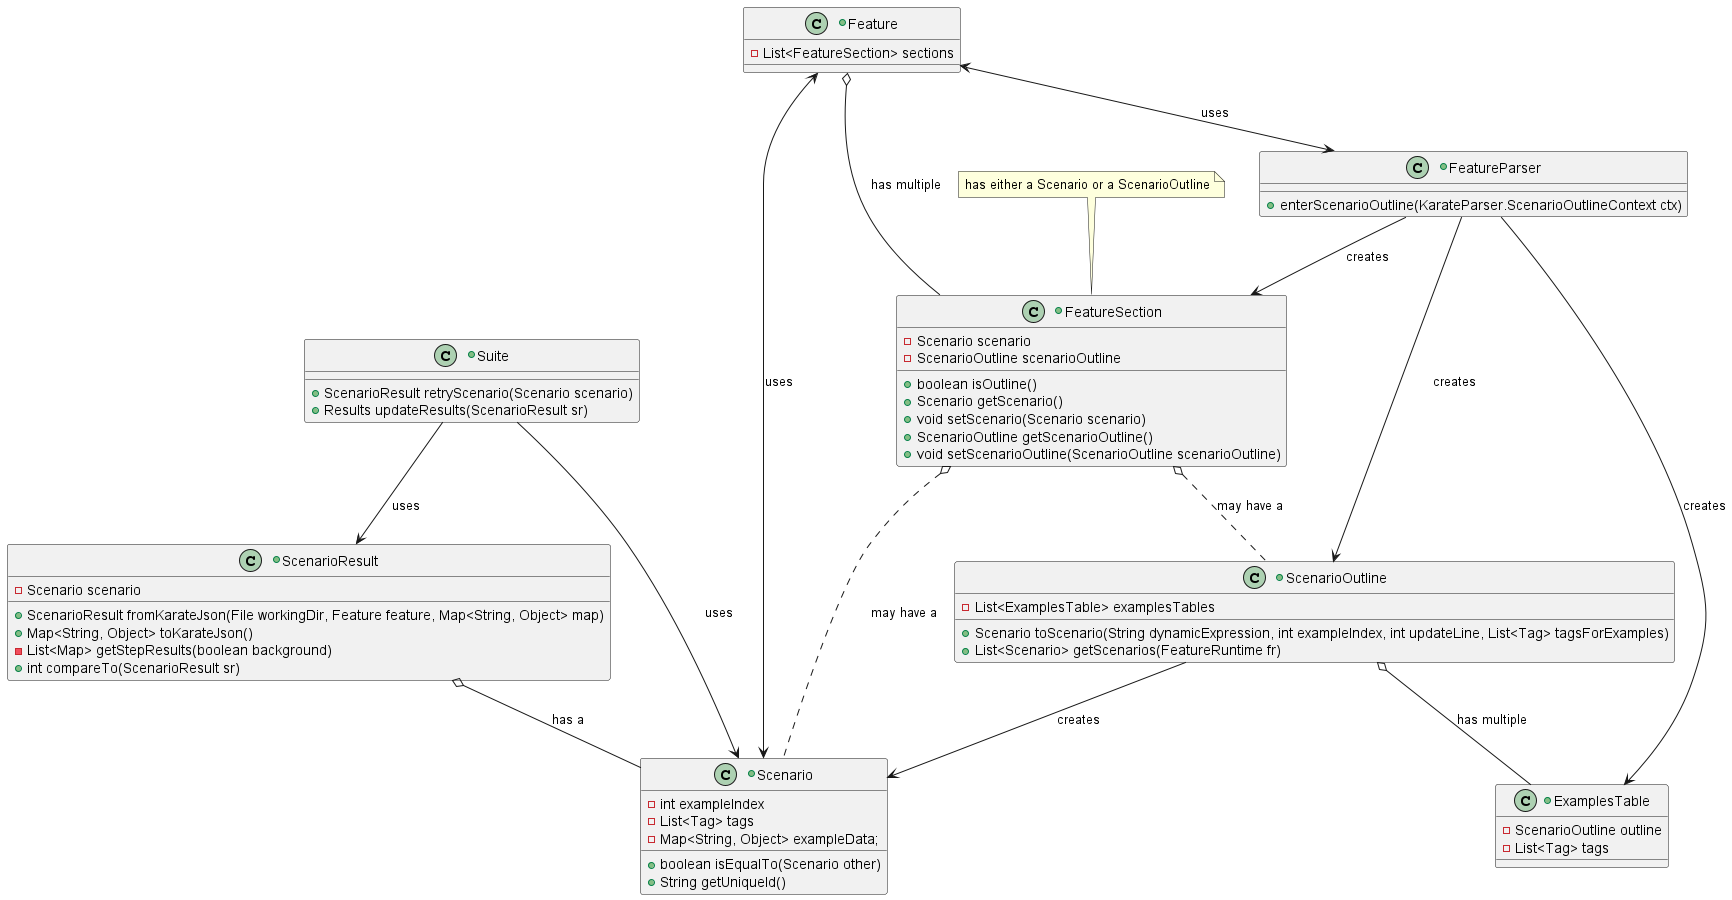
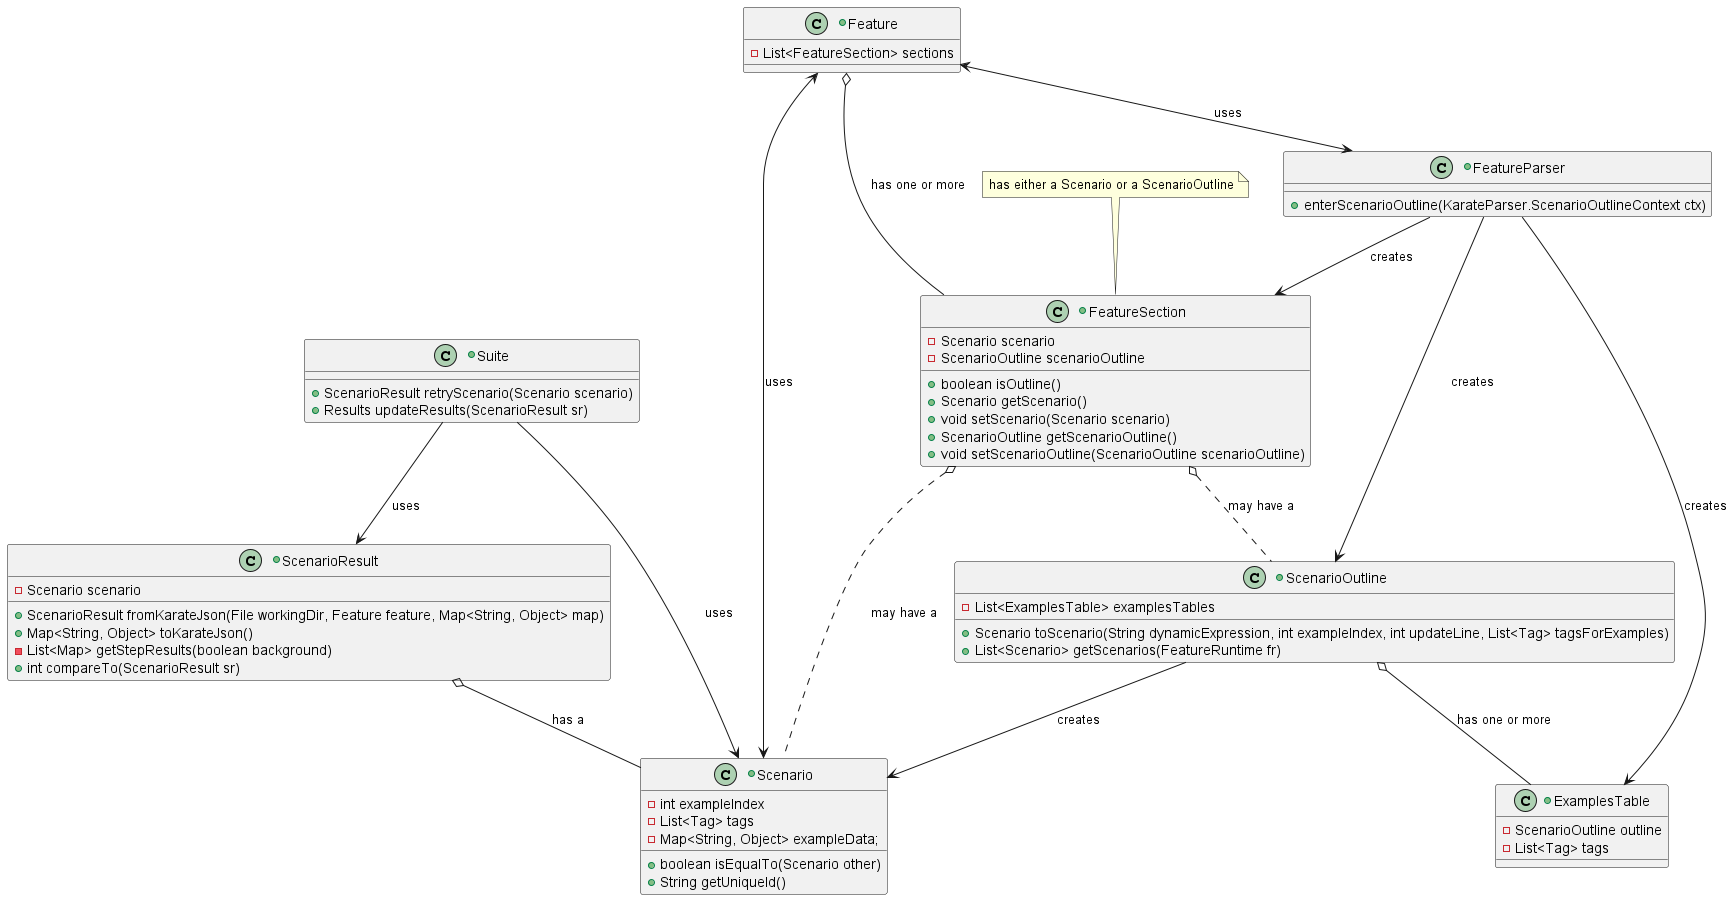
Update UML and add UML + description to report

diff --git a/report.md b/report.md
@@ -71,11 +71,15 @@ refactoring).
 
 ## UML class diagram and its description
 
-### Key changes/classes affected
+![UML class diagram for affected classes and some additional ones for context](assignment/uml/diagram_before.png)
 
-Optional (point 1): Architectural overview.
+The UML diagram shows the structure of the classes that were involved in fixing the issue. For context, some classes
+not affected or affected very little are also shown, to illustrate how the core classes involved are created and interact. 
 
-Optional (point 2): relation to design pattern(s).
+The most important part is that ScenarioOutline contains one or more ExamplesTable, which it uses to generate Scenarios. Scenario was the class most affected by the changes, as we needed to integrate a new variable, exampleTableIndex, renaming the original exampleIndex to exampleRowIndex. This change required adjustments to many other methods, such as initially setting it in ScenarioOutline, or adjusting ScenarioResult methods for comparing and creating from json. The Suite class is included as its retryScenario and updateResults methods were the cause of the issue, but it did not have to be changed, as we fixed the methods it relied on. After we fixed the first requirement, the tags issue only required changes in ScenarioResult:fromKarateJson. 
+
+The diagram shows the structure before the changes, but the only differences that would be noticeable afterwards is that
+"getExampleTableIndex" and "setExampleTableIndex" would be present in the Scenario class. Most changes are internally in the methods and would not affect the structure of the diagram, but some methods like toScenario would have exampleTableIndex as a new parameter. 
 
 ## Overall experience
 
